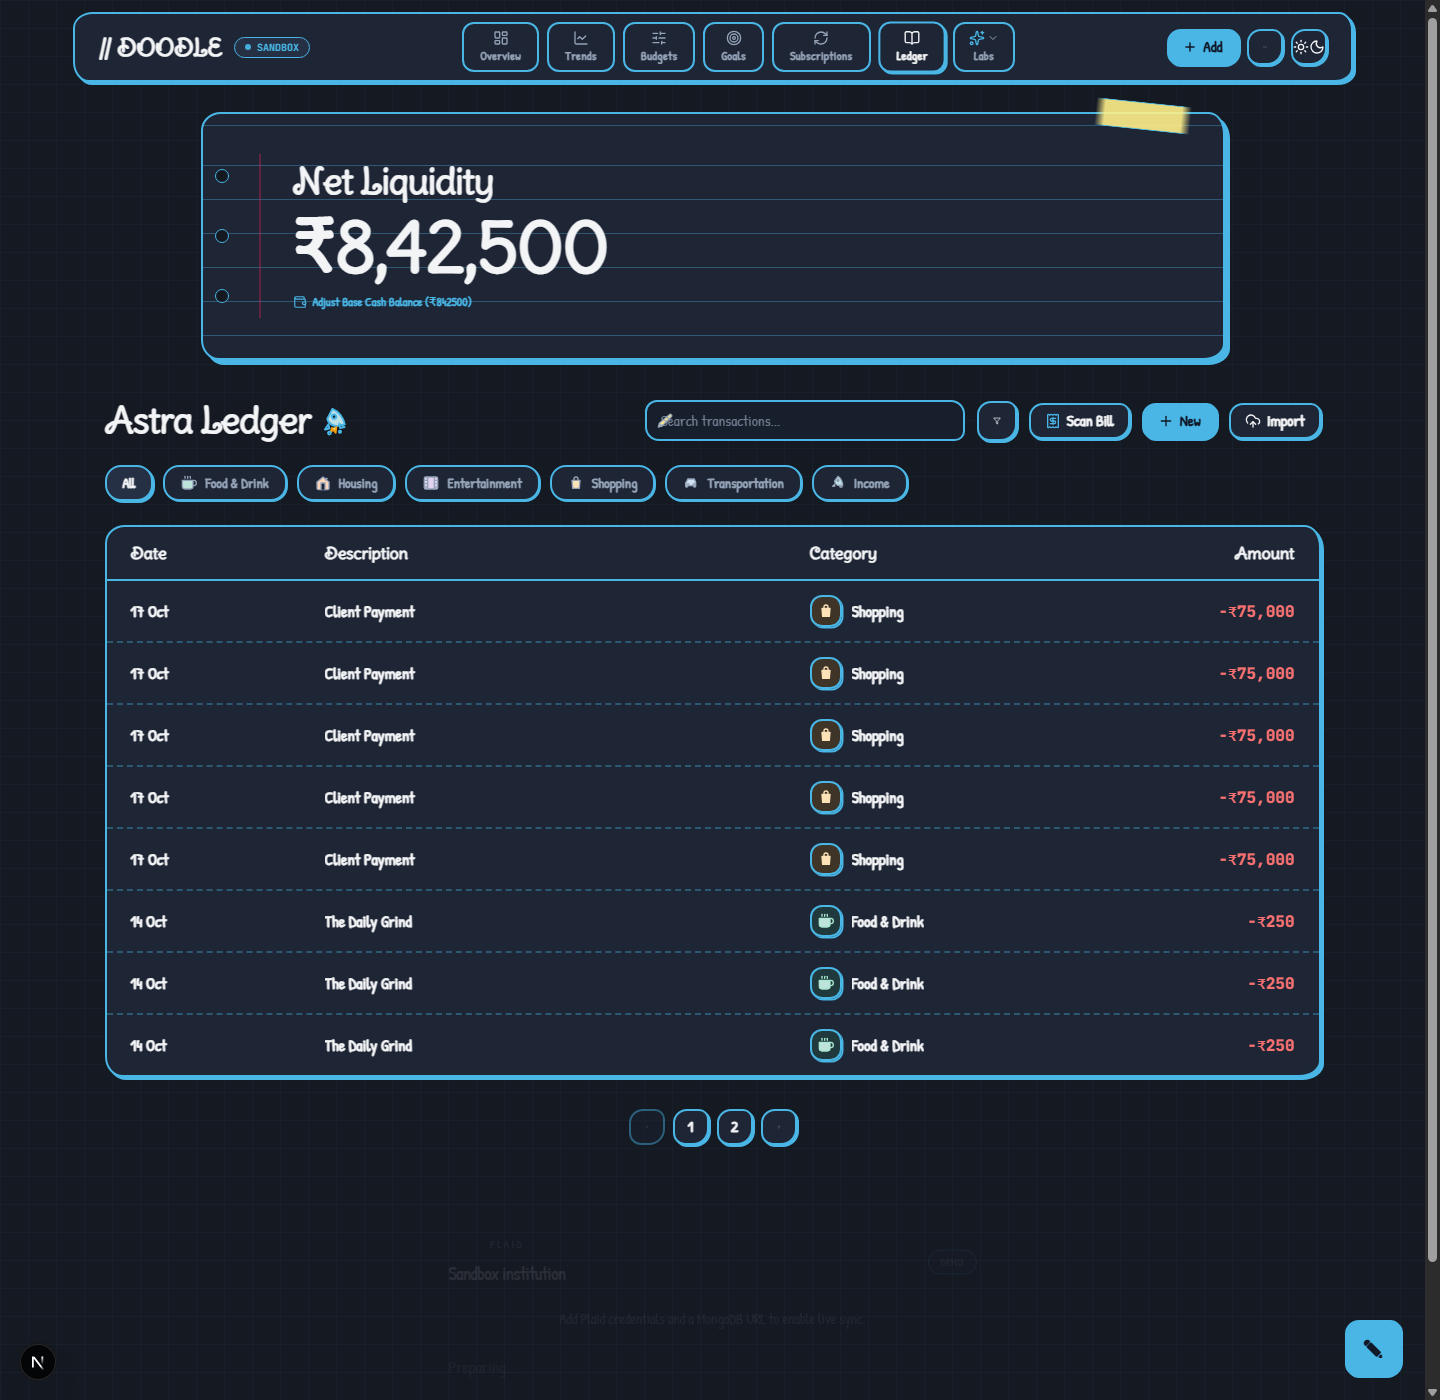
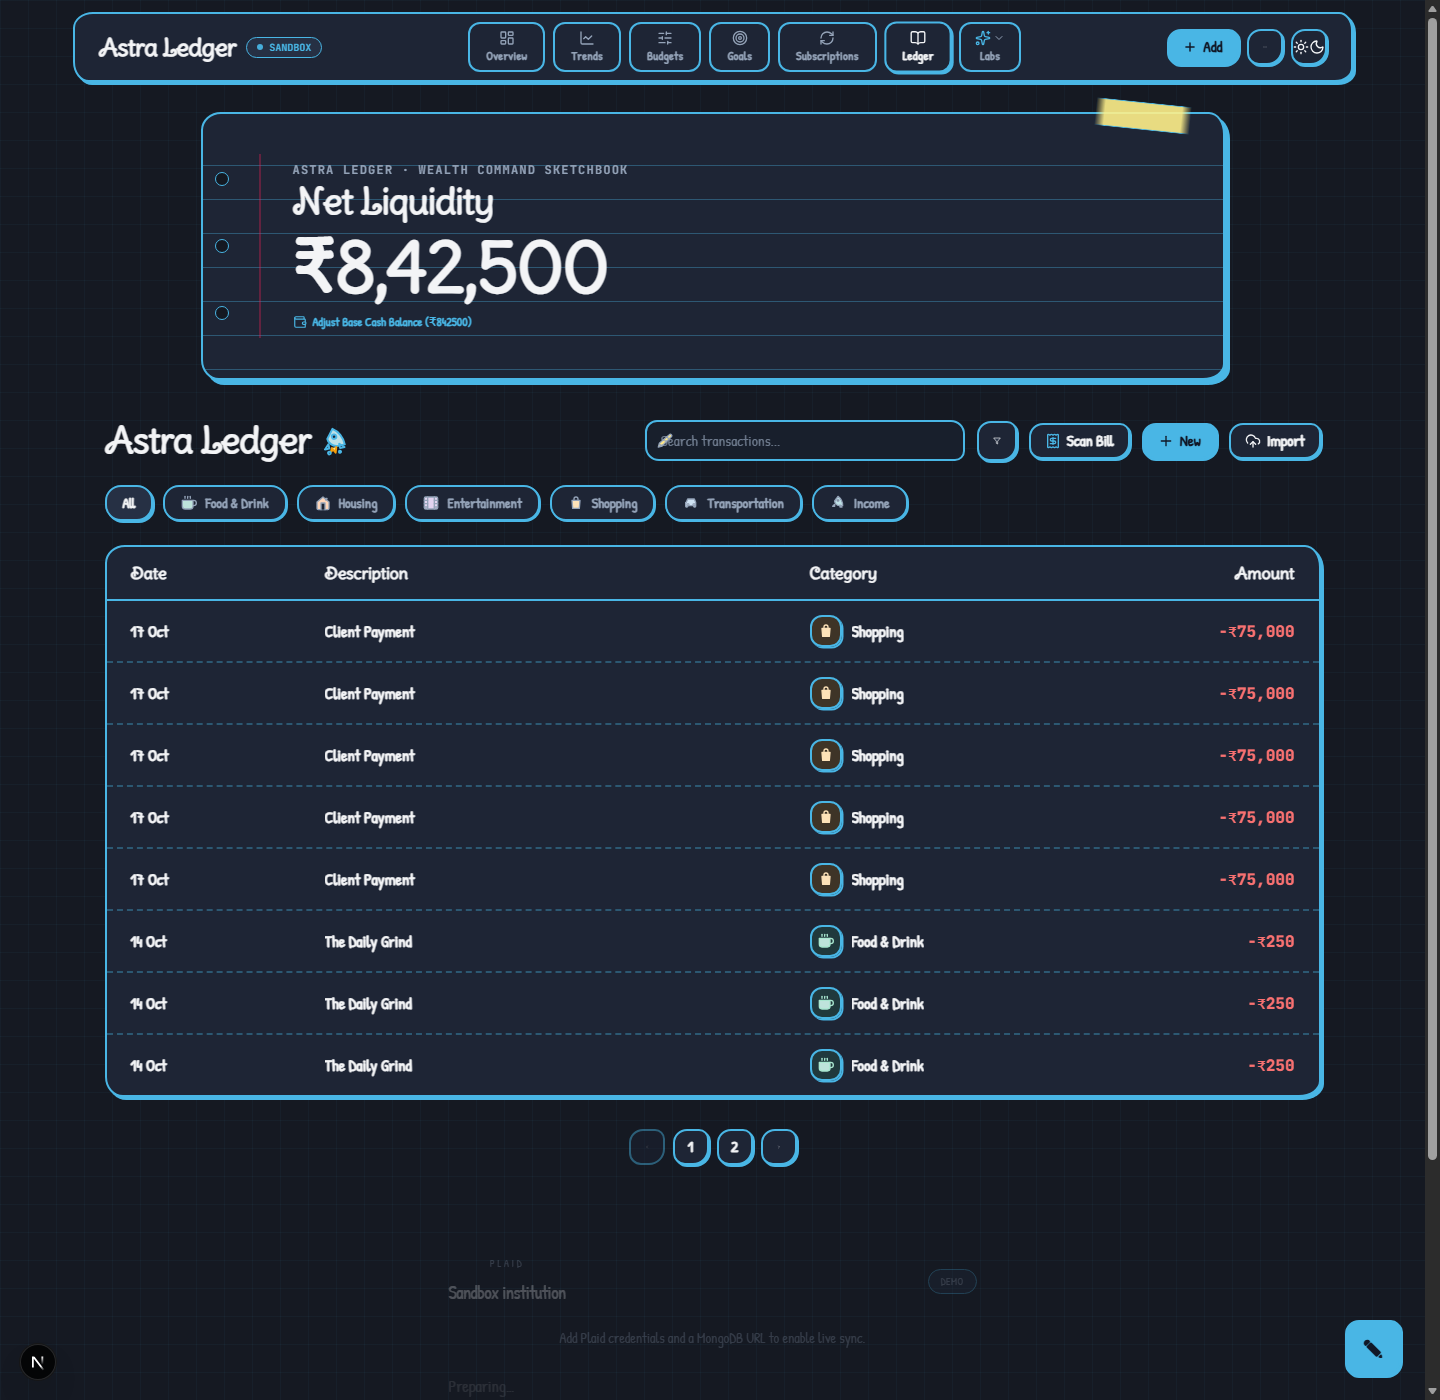
CHORE: Rehaul and Deploy

diff --git a/scripts/generate-favicon.js b/scripts/generate-favicon.js
@@ -1,0 +1,82 @@
+const fs = require('fs');
+const sharp = require('sharp');
+
+const svgContent = `<svg xmlns="http://www.w3.org/2000/svg" viewBox="0 0 64 64" width="64" height="64" fill="none">
+  <!-- Rounded Hand-Drawn Notebook Card -->
+  <rect x="3" y="3" width="58" height="58" rx="14" fill="#0F172A" stroke="#49B6E5" stroke-width="4" stroke-linejoin="round"/>
+  
+  <!-- Left Binder Margin & Holes -->
+  <line x1="17" y1="8" x2="17" y2="56" stroke="#49B6E5" stroke-width="2" stroke-dasharray="3 3" opacity="0.5"/>
+  <circle cx="10" cy="18" r="2.5" fill="#49B6E5"/>
+  <circle cx="10" cy="32" r="2.5" fill="#49B6E5"/>
+  <circle cx="10" cy="46" r="2.5" fill="#49B6E5"/>
+
+  <!-- Celestial Astra 4-Point Star (Golden Doodled) -->
+  <path d="M38 11 C38 22 43 28 53 28 C43 28 38 34 38 45 C38 34 33 28 23 28 C33 28 38 22 38 11 Z" fill="#FBBF24" stroke="#F59E0B" stroke-width="2.5" stroke-linejoin="round"/>
+  
+  <!-- Mini Accent Sparkle -->
+  <path d="M49 14 L50.5 17 L53.5 18 L50.5 19 L49 22 L47.5 19 L44.5 18 L47.5 17 Z" fill="#38BDF8"/>
+
+  <!-- Ledger Ruled Underline -->
+  <path d="M24 49 C32 47.5 44 47.5 52 49" stroke="#49B6E5" stroke-width="3.5" stroke-linecap="round"/>
+</svg>`;
+
+// Write SVGs
+fs.writeFileSync('src/app/icon.svg', svgContent, 'utf8');
+fs.writeFileSync('public/favicon.svg', svgContent, 'utf8');
+fs.writeFileSync('public/icon.svg', svgContent, 'utf8');
+
+async function generate() {
+  const buf16 = await sharp(Buffer.from(svgContent)).resize(16, 16).png().toBuffer();
+  const buf32 = await sharp(Buffer.from(svgContent)).resize(32, 32).png().toBuffer();
+  const buf48 = await sharp(Buffer.from(svgContent)).resize(48, 48).png().toBuffer();
+  const buf64 = await sharp(Buffer.from(svgContent)).resize(64, 64).png().toBuffer();
+  const buf192 = await sharp(Buffer.from(svgContent)).resize(192, 192).png().toBuffer();
+
+  fs.writeFileSync('src/app/icon.png', buf64);
+  fs.writeFileSync('public/icon.png', buf192);
+  fs.writeFileSync('public/icon-32x32.png', buf32);
+
+  // Simple ICO builder from PNG buffers (16x16, 32x32, 48x48)
+  const images = [
+    { width: 16, height: 16, buf: buf16 },
+    { width: 32, height: 32, buf: buf32 },
+    { width: 48, height: 48, buf: buf48 }
+  ];
+
+  // ICO header: 6 bytes (reserved=0, type=1 for icon, count=3)
+  const header = Buffer.alloc(6);
+  header.writeUInt16LE(0, 0);
+  header.writeUInt16LE(1, 2);
+  header.writeUInt16LE(images.length, 4);
+
+  // Directory entries: 16 bytes each
+  const dirSize = 16 * images.length;
+  let offset = 6 + dirSize;
+  const dirBuffers = [];
+
+  for (const img of images) {
+    const entry = Buffer.alloc(16);
+    entry.writeUInt8(img.width >= 256 ? 0 : img.width, 0);
+    entry.writeUInt8(img.height >= 256 ? 0 : img.height, 1);
+    entry.writeUInt8(0, 2); // color palette count
+    entry.writeUInt8(0, 3); // reserved
+    entry.writeUInt16LE(1, 4); // color planes
+    entry.writeUInt16LE(32, 6); // bits per pixel
+    entry.writeUInt32LE(img.buf.length, 8); // image size
+    entry.writeUInt32LE(offset, 12); // image offset
+    dirBuffers.push(entry);
+    offset += img.buf.length;
+  }
+
+  const icoBuffer = Buffer.concat([header, ...dirBuffers, ...images.map(img => img.buf)]);
+  fs.writeFileSync('src/app/favicon.ico', icoBuffer);
+  fs.writeFileSync('public/favicon.ico', icoBuffer);
+
+  console.log('Favicons generated successfully! ICO bytes:', icoBuffer.length);
+}
+
+generate().catch(err => {
+  console.error(err);
+  process.exit(1);
+});

diff --git a/src/components/dashboard-shell.tsx b/src/components/dashboard-shell.tsx
@@ -475,9 +475,9 @@ export function DashboardShell({
               style={{ borderRadius: "20px 14px 18px 16px / 16px 18px 14px 20px" }}
             >
               {/* Brand Logo & Subtle Sandbox Indicator */}
-              <div className="flex items-center gap-3">
+              <div className="flex items-center gap-2.5">
                 <span className="font-display text-2xl font-black tracking-tight text-[var(--foreground)]">
-                  // DOODLE
+                  Astra Ledger
                 </span>
                 <span className="hidden sm:inline-flex items-center gap-1.5 font-mono text-[10px] uppercase font-bold text-[var(--color-primary)] bg-[var(--surface-2)] px-2.5 py-0.5 rounded-full border border-[var(--border)]">
                   <span className="h-1.5 w-1.5 rounded-full bg-[var(--color-primary)] animate-pulse" />
@@ -787,6 +787,11 @@ export function DashboardShell({
             <div className="mb-10">
               <DepthHero>
                 <div className="flex flex-col items-start justify-center text-left py-2">
+                  <div className="flex items-center gap-2 mb-1">
+                    <span className="font-mono text-xs uppercase tracking-widest text-[var(--muted)] font-bold">
+                      Astra Ledger · Wealth Command Sketchbook
+                    </span>
+                  </div>
                   <h2 className="text-3xl sm:text-4xl font-black tracking-tight text-[var(--foreground)] font-display">
                     Net Liquidity
                   </h2>
@@ -951,6 +956,17 @@ export function DashboardShell({
             <div className="mt-14 max-w-xl mx-auto text-center">
               <PlaidConnect />
             </div>
+
+            {/* Astra Ledger Footer */}
+            <footer className="mt-16 pt-8 border-t border-dashed border-[var(--border)] text-center text-xs font-hand text-[var(--muted)] flex flex-col sm:flex-row items-center justify-between gap-2">
+              <div className="flex items-center gap-2">
+                <span className="font-display font-bold text-sm text-[var(--foreground)]">Astra Ledger</span>
+                <span>· Hand-Drawn Personal Finance Command Center</span>
+              </div>
+              <div className="font-mono text-[11px]">
+                TypeUI Doodle System · Offline-First
+              </div>
+            </footer>
           </main>
 
           {/* Clean Functional Modals */}

diff --git a/src/components/overview-tab.tsx b/src/components/overview-tab.tsx
@@ -50,6 +50,19 @@ export function OverviewTab({
 
   return (
     <div className="space-y-8 font-hand">
+      {/* Top Header: Astra Overview */}
+      <div className="flex flex-col sm:flex-row sm:items-center sm:justify-between gap-2 pb-1">
+        <div className="flex items-center gap-2.5">
+          <Wallet className="h-7 w-7 text-[var(--color-primary)]" />
+          <h2 className="text-3xl sm:text-4xl font-black tracking-tight text-[var(--foreground)] font-display">
+            Astra Overview
+          </h2>
+        </div>
+        <p className="text-xs text-[var(--muted)] font-mono">
+          Interactive Cashflow Trajectory & Runway Pulse
+        </p>
+      </div>
+
       {/* 4 Doodle Metric Cards strictly matching Image 1 */}
       <div className="grid gap-6 sm:grid-cols-2 lg:grid-cols-4">
         {/* Card 1: Monthly Inflow */}

diff --git a/src/components/analytics-tab.tsx b/src/components/analytics-tab.tsx
@@ -32,6 +32,16 @@ export function AnalyticsTab({ data }: AnalyticsTabProps) {
 
   return (
     <div className="space-y-8">
+      {/* Top Header: Astra Trends */}
+      <div className="flex flex-col sm:flex-row sm:items-center sm:justify-between gap-2 pb-1">
+        <h2 className="text-3xl sm:text-4xl font-black tracking-tight text-[var(--foreground)] font-display">
+          Astra Trends
+        </h2>
+        <span className="text-xs text-[var(--muted)] font-mono hidden sm:inline-block">
+          Interactive Cashflow Trajectory & Outflow Matrix
+        </span>
+      </div>
+
       {/* Interactive Main Chart */}
       <InteractiveChart trend={data.trend} />
 

diff --git a/src/components/quick-add-modal.tsx b/src/components/quick-add-modal.tsx
@@ -186,9 +186,9 @@ export function QuickAddModal({ isOpen, onClose, onSuccess, quickExamples = [] }
                 </div>
                 <div>
                   <h3 className="text-xl font-bold font-serif text-[var(--foreground)]">
-                    ✎ Record Transaction
+                    ✎ Astra Quick-Add
                   </h3>
-                  <p className="text-xs font-serif text-[var(--muted)]">Add instant sketch cashflow entries to your ledger</p>
+                  <p className="text-xs font-serif text-[var(--muted)]">Add instant sketch cashflow entries to your Astra Ledger</p>
                 </div>
               </div>
 

diff --git a/src/app/layout.tsx b/src/app/layout.tsx
@@ -19,9 +19,19 @@ const mono = JetBrains_Mono({
 });
 
 export const metadata: Metadata = {
-  title: "Astra Ledger · Hand-Drawn Financial Sketchbook",
+  title: "Astra Ledger",
   description:
     "A hand-drawn, sketch-inspired personal finance notebook powered by TypeUI Doodle design system.",
+  icons: {
+    icon: [
+      { url: "/icon.svg", type: "image/svg+xml" },
+      { url: "/favicon.ico", sizes: "any" },
+      { url: "/icon-32x32.png", sizes: "32x32", type: "image/png" },
+    ],
+    apple: [
+      { url: "/icon.png", sizes: "180x180", type: "image/png" },
+    ],
+  },
 };
 
 const themeInitScript = `

diff --git a/src/components/goal-modal.tsx b/src/components/goal-modal.tsx
@@ -171,7 +171,7 @@ export function GoalModal({
                 </div>
                 <div>
                   <h3 className="text-xl font-bold font-serif text-[var(--foreground)]">
-                    {contributeGoal ? "✎ Contribute to Goal" : "✎ Create Savings Goal"}
+                    {contributeGoal ? "✎ Contribute to Astra Goal" : "✎ Create Astra Savings Goal"}
                   </h3>
                   <p className="text-xs font-serif text-[var(--muted)]">
                     {contributeGoal ? contributeGoal.name : "Track milestone targets and celebrate progress"}

diff --git a/src/components/keyboard-shortcuts-modal.tsx b/src/components/keyboard-shortcuts-modal.tsx
@@ -44,9 +44,9 @@ export function KeyboardShortcutsModal({ isOpen, onClose }: KeyboardShortcutsMod
                 </div>
                 <div>
                   <h3 className="text-lg font-bold tracking-tight text-[var(--foreground)]">
-                    Keyboard Shortcuts
+                    Astra Ledger Shortcuts
                   </h3>
-                  <p className="text-xs text-[var(--muted-2)]">Doodle fast navigation</p>
+                  <p className="text-xs text-[var(--muted-2)]">Fast sketchbook navigation</p>
                 </div>
               </div>
 

diff --git a/src/components/financial-leak-audit.tsx b/src/components/financial-leak-audit.tsx
@@ -170,7 +170,7 @@ export function FinancialLeakAudit({ data, onOpenBudgetModal }: FinancialLeakAud
               </span>
             </div>
             <h3 className="mt-1 text-2xl sm:text-3xl font-black tracking-tight text-[var(--foreground)] font-display">
-              Hidden Financial Leak Audit
+              Astra Financial Leak Audit
             </h3>
             <p className="mt-1 text-sm text-[var(--muted)] font-hand">
               Algorithmic diagnostic scanning transactions for vampire subscriptions, weekend burn surges, and phantom micro-splurges.

diff --git a/src/components/what-if-simulator.tsx b/src/components/what-if-simulator.tsx
@@ -305,7 +305,7 @@ export function WhatIfSimulator({ data }: WhatIfSimulatorProps) {
               </span>
             </div>
             <h3 className="mt-1 text-2xl sm:text-3xl font-black tracking-tight text-[var(--foreground)] font-display">
-              Temporal Financial Time-Machine
+              Astra Multiverse Time-Machine
             </h3>
             <p className="mt-1 text-sm text-[var(--muted)] font-hand">
               Model branching lifepaths, career pivots, and major capital investments against your active baseline liquidity.

diff --git a/src/components/goals-tab.tsx b/src/components/goals-tab.tsx
@@ -30,7 +30,7 @@ export function GoalsTab({ goals, onOpenCreateGoal, onOpenContribute }: GoalsTab
               </span>
             </div>
             <h3 className="mt-1 text-2xl sm:text-3xl font-black tracking-tight text-[var(--foreground)] font-serif">
-              Sketch Savings Goals
+              Astra Savings Goals
             </h3>
             <p className="mt-1 text-sm text-[var(--muted)] font-sans">
               Accumulated {currency(totalSaved)} across {goals.length} target sketch trajectories

diff --git a/src/components/recurring-tab.tsx b/src/components/recurring-tab.tsx
@@ -72,7 +72,7 @@ export function RecurringTab({
               </span>
             </div>
             <h3 className="mt-1 text-2xl sm:text-3xl font-black tracking-tight text-[var(--foreground)] font-serif">
-              Subscriptions & Fixed Obligations
+              Astra Subscriptions & Commitments
             </h3>
             <p className="mt-1 text-sm text-[var(--muted)] font-sans">
               Tracking {recurringItems.length} active recurring commitments · {currency(monthlyTotal)}/mo run rate
